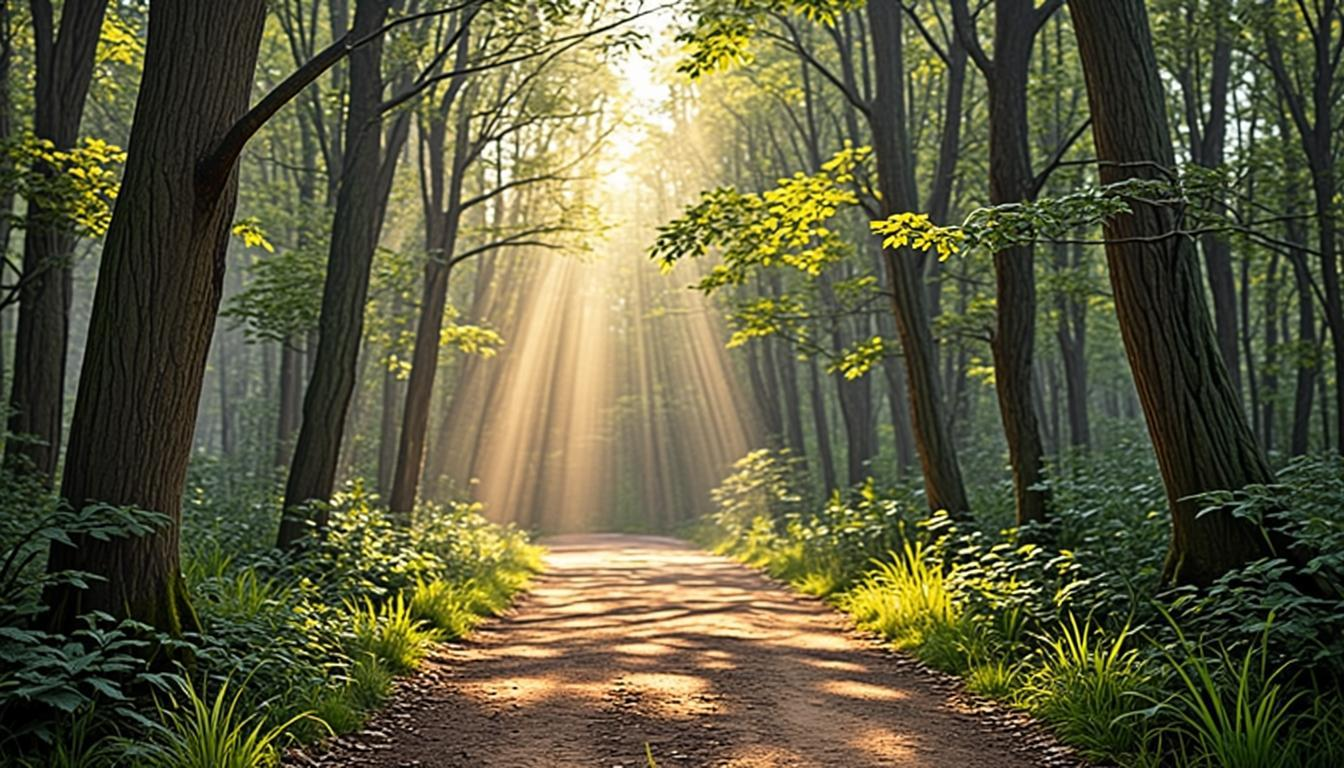
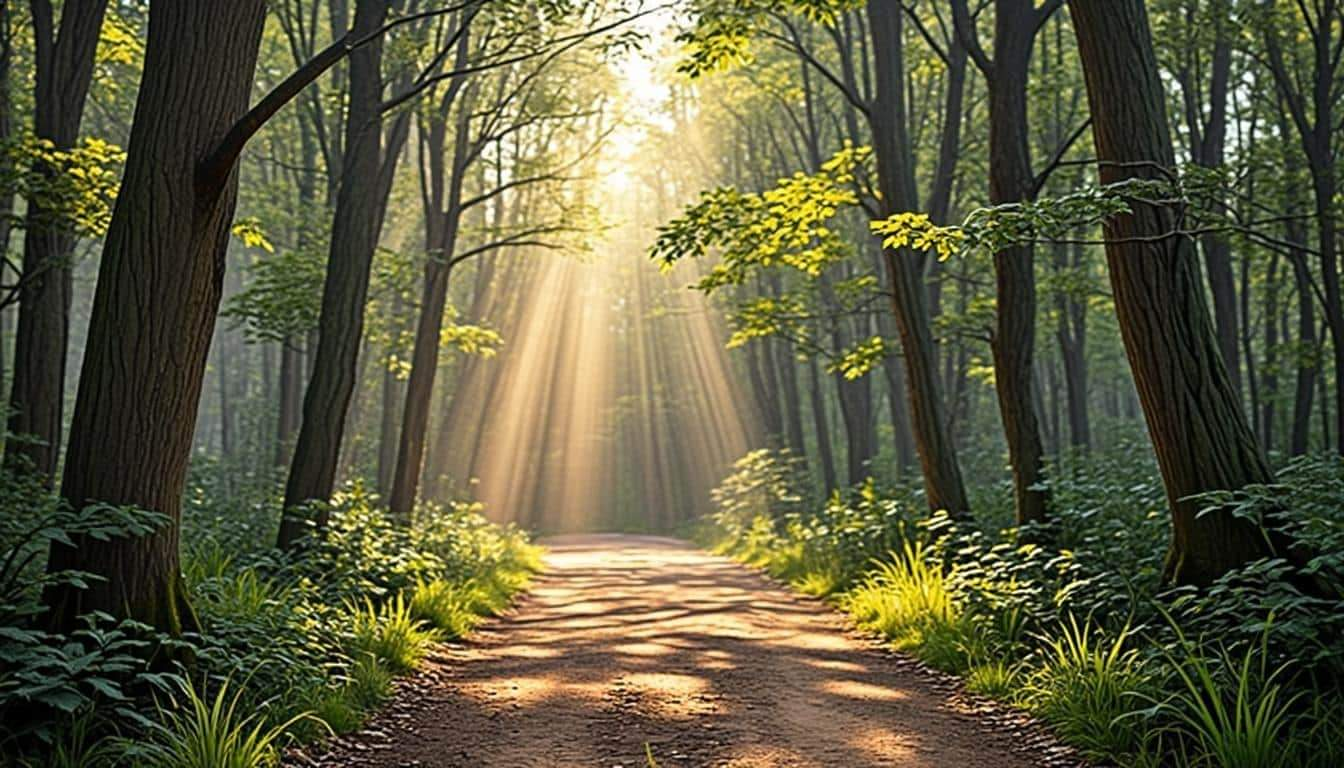
fix: WebP images + JS-independent hero paint (SEO quick wins) (#30)
* fix: convert images to WebP and compress OG image for faster loads

* fix: paint hero content without JavaScript for better LCP

diff --git a/src/components/sections/hero.tsx b/src/components/sections/hero.tsx
@@ -1,7 +1,6 @@
 import Image from "next/image";
 import { ArrowRight, LifeBuoy, Video } from "lucide-react";
 import { Button } from "@/components/ui/button";
-import { Reveal } from "@/components/reveal";
 import { SITE } from "@/lib/site";
 
 export function Hero() {
@@ -18,7 +17,11 @@ export function Hero() {
           {/* A face before any copy: for someone deciding whether to trust a
               stranger with hard things, the photo is the first answer. The
               name is adjacent text, so the image is decorative to readers. */}
-          <Reveal>
+          {/* Above-fold hero content animates with CSS only (.hero-fade-up in
+              globals.css), so the h1 paints without JavaScript — no-JS
+              visitors and crawlers see it, and prefers-reduced-motion skips
+              the motion entirely. Delays mirror the old reveal stagger. */}
+          <div className="hero-fade-up">
             <div className="flex items-center gap-3.5 justify-center lg:justify-start">
               <span className="relative size-14 shrink-0 overflow-hidden rounded-full ring-2 ring-background shadow-md shadow-primary/15">
                 <Image
@@ -39,16 +42,19 @@ export function Hero() {
                 </span>
               </span>
             </div>
-          </Reveal>
+          </div>
 
-          <Reveal delay={0.08}>
+          <div className="hero-fade-up" style={{ animationDelay: "0.08s" }}>
             <span className="mt-6 inline-flex items-center gap-2 rounded-full border border-primary/20 bg-primary/5 px-3.5 py-1.5 text-xs font-medium uppercase tracking-[0.14em] text-primary">
               <Video className="size-3.5" aria-hidden="true" />
               Online-only practice · {SITE.licenseShort}
             </span>
-          </Reveal>
+          </div>
 
-          <Reveal delay={0.16}>
+          <div
+            className="hero-fade-up"
+            style={{ animationDelay: "0.16s" }}
+          >
             <h1
               id="hero-heading"
               className="mt-6 font-serif text-4xl font-semibold leading-[1.08] tracking-tight text-foreground text-balance sm:text-5xl lg:text-6xl"
@@ -56,9 +62,12 @@ export function Hero() {
               When each day feels like a roller coaster, therapy can help you
               get off the ride.
             </h1>
-          </Reveal>
+          </div>
 
-          <Reveal delay={0.24}>
+          <div
+            className="hero-fade-up"
+            style={{ animationDelay: "0.24s" }}
+          >
             <p className="mt-6 max-w-2xl text-lg leading-relaxed text-muted-foreground text-balance">
               I’m Dr. Kara Hokes, a licensed psychologist specializing in
               evidence-based care for trauma and emotion dysregulation.
@@ -67,9 +76,12 @@ export function Hero() {
               story. Evidence-based does not have to mean cold. I bring
               curiosity, warmth, and focused attention to every session.
             </p>
-          </Reveal>
+          </div>
 
-          <Reveal delay={0.32}>
+          <div
+            className="hero-fade-up"
+            style={{ animationDelay: "0.32s" }}
+          >
             <div className="mt-8 flex flex-col gap-3 sm:flex-row sm:items-center">
               <Button
                 asChild
@@ -93,22 +105,28 @@ export function Hero() {
                 <a href="#communities">See who I work with</a>
               </Button>
             </div>
-          </Reveal>
+          </div>
 
-          <Reveal delay={0.4}>
+          <div
+            className="hero-fade-up"
+            style={{ animationDelay: "0.4s" }}
+          >
             <p className="mt-6 flex items-center gap-2 text-sm text-muted-foreground justify-center lg:justify-start">
               <Video className="size-4 shrink-0 text-primary/80" aria-hidden="true" />
               Most major insurance accepted · $150 per session with a free
               15-minute intro call · Secure video across Washington State and
               PSYPACT states
             </p>
-          </Reveal>
+          </div>
 
           <p className="mt-2.5 text-xs text-muted-foreground">Also listed on my{" "}<a href={SITE.psychologyToday} target="_blank" rel="noopener noreferrer" className="font-medium text-primary underline-offset-4 hover:underline">Psychology Today</a> profile.</p>
 
           {/* The two things an anxious visitor scans for most (cost and what
               to do if tonight is the hard night) now sit above the fold. */}
-          <Reveal delay={0.48}>
+          <div
+            className="hero-fade-up"
+            style={{ animationDelay: "0.48s" }}
+          >
             <p className="mt-2.5 flex items-start gap-2 text-xs leading-relaxed text-muted-foreground justify-center lg:justify-start">
               <LifeBuoy
                 className="mt-0.5 size-3.5 shrink-0 text-destructive/80"
@@ -126,7 +144,7 @@ export function Hero() {
                 clock.
               </span>
             </p>
-          </Reveal>
+          </div>
         </div>
       </div>
     </section>
@@ -148,7 +166,7 @@ function HeroImage() {
       {/* Background image via CSS, degrades gracefully to gradient if missing */}
       <div
         className="absolute inset-0 opacity-90 bg-cover bg-center"
-        style={{ backgroundImage: "url('/hero-landscape.png')" }}
+        style={{ backgroundImage: "url('/hero-landscape.webp')" }}
       />
       {/* Cream wash on the left so headline text stays readable; image shows through on the right */}
       <div className="absolute inset-0 bg-gradient-to-r from-background via-background/80 to-transparent md:via-background/55" />

diff --git a/tests/e2e/hero-static-visibility.spec.ts b/tests/e2e/hero-static-visibility.spec.ts
@@ -1,0 +1,41 @@
+import { expect, test } from "@playwright/test";
+
+// The hero is the LCP element. Its content must paint from HTML + CSS alone:
+// no-JS visitors and crawlers still get the headline, and reduced-motion
+// visitors get it with no movement. framer-motion reveals render
+// `opacity: 0` inline until hydration, so they cannot satisfy this; the hero
+// therefore uses a CSS-only fade-up (see .hero-fade-up in globals.css).
+//
+// Note on assertions: opacity is NOT inherited, so the h1's own computed
+// opacity stays 1 even inside an opacity-0 wrapper (and Playwright counts
+// opacity: 0 as "visible"). The real pin is the reveal WRAPPER around the
+// h1: it must end at computed opacity 1 without any JavaScript.
+
+test("hero h1 paints with JavaScript disabled", async ({ browser }) => {
+  const context = await browser.newContext({ javaScriptEnabled: false });
+  const page = await context.newPage();
+  await page.goto("/");
+
+  const h1 = page.locator("#hero-heading");
+  await expect(h1).toBeVisible();
+  // The wrapper carrying the reveal must be fully opaque without JS.
+  await expect(h1.locator("xpath=..")).toHaveCSS("opacity", "1");
+
+  await context.close();
+});
+
+test("hero h1 paints with no motion under prefers-reduced-motion", async ({
+  browser,
+}) => {
+  const context = await browser.newContext({ reducedMotion: "reduce" });
+  const page = await context.newPage();
+  await page.goto("/");
+
+  const h1 = page.locator("#hero-heading");
+  await expect(h1).toBeVisible();
+  await expect(h1.locator("xpath=..")).toHaveCSS("opacity", "1");
+  // Reduced-motion visitors get static content: no fade-up at all.
+  await expect(h1.locator("xpath=..")).toHaveCSS("animation-name", "none");
+
+  await context.close();
+});

diff --git a/src/components/sections/reading.tsx b/src/components/sections/reading.tsx
@@ -15,25 +15,25 @@ const BOOKS: Book[] = [
     title: "The Body Keeps the Score",
     author: "Bessel van der Kolk",
     note: "The classic on how trauma lives in the body. Dense in places, and worth the effort.",
-    cover: "/book-body-keeps-score.png",
+    cover: "/book-body-keeps-score.webp",
   },
   {
     title: "Transforming the Living Legacy of Trauma",
     author: "Janina Fisher",
     note: "A workbook, not a lecture. Gentle exercises for the days when therapy feels like too much.",
-    cover: "/book-living-legacy.png",
+    cover: "/book-living-legacy.webp",
   },
   {
     title: "What My Bones Know",
     author: "Stephanie Foo",
     note: "A memoir of complex PTSD. Clients tell me it's the first time they saw themselves on the page.",
-    cover: "/book-what-my-bones-know.png",
+    cover: "/book-what-my-bones-know.webp",
   },
   {
     title: "It Didn't Start with You",
     author: "Mark Wolynn",
     note: "On how family pain echoes forward. I suggest it when the history predates you.",
-    cover: "/book-didnt-start-with-you.png",
+    cover: "/book-didnt-start-with-you.webp",
   },
 ];
 

diff --git a/src/app/globals.css b/src/app/globals.css
@@ -203,6 +203,33 @@
   }
 }
 
+/* Hero fade-up: CSS-only so the LCP element (hero h1) paints without any
+   JavaScript — no-JS visitors and crawlers get the headline from the first
+   paint, which framer-motion's reveal (opacity: 0 until hydration) cannot
+   do. Timing mirrors the below-fold Reveal (0.6s, same cubic-bezier) and
+   `both` fill-mode holds the from-state during staggered delays. Reduced-
+   motion visitors skip the animation entirely: content static and visible. */
+@keyframes hero-fade-up {
+  from {
+    opacity: 0;
+    transform: translateY(16px);
+  }
+  to {
+    opacity: 1;
+    transform: translateY(0);
+  }
+}
+
+.hero-fade-up {
+  animation: hero-fade-up 0.6s cubic-bezier(0.22, 1, 0.36, 1) both;
+}
+
+@media (prefers-reduced-motion: reduce) {
+  .hero-fade-up {
+    animation: none;
+  }
+}
+
 /* Print layout: people in unsafe situations are often told to keep a printed
    copy of crisis resources somewhere safe, so printing (or saving as PDF)
    produces exactly one clean sheet: the crisis numbers and the practice's

diff --git a/tests/e2e/smoke.spec.ts b/tests/e2e/smoke.spec.ts
@@ -168,6 +168,15 @@ test("t7: practice phone is visible and crisis numbers are real links", async ({
 });
 
 test("t8: homepage passes axe WCAG 2.0/2.1 A and AA", async ({ page }) => {
+  // The hero's CSS entrance fade-up (globals.css .hero-fade-up) leaves text
+  // mid-opacity for its first ~1s, and axe samples BLENDED colors on
+  // partially transparent elements, producing false color-contrast failures
+  // for the resting state. Disable animations before scanning: axe then
+  // measures the final (reduced-motion-equivalent) presentation, which is
+  // the state the WCAG contrast ratios actually apply to.
+  await page.addStyleTag({
+    content: "*, *::before, *::after { animation: none !important; }",
+  });
   const results = await new AxeBuilder({ page })
     .withTags(["wcag2a", "wcag2aa", "wcag21a", "wcag21aa"])
     .analyze();

diff --git a/src/components/sections/approach.tsx b/src/components/sections/approach.tsx
@@ -75,7 +75,7 @@ export function Approach() {
                   <div className="absolute inset-0 bg-gradient-to-br from-[oklch(0.92_0.03_100)] to-[oklch(0.86_0.04_145)]" />
                   <div
                     className="absolute inset-0 bg-cover bg-center"
-                    style={{ backgroundImage: "url('/telehealth-landscape.png')" }}
+                    style={{ backgroundImage: "url('/telehealth-landscape.webp')" }}
                     role="img"
                     aria-label="Illustration of a video therapy setup: a laptop and headphones at a bright desk, evergreen forest outside the window"
                   />

diff --git a/src/lib/site.ts b/src/lib/site.ts
@@ -48,6 +48,6 @@ export const SITE = {
     "https://www.psychologytoday.com/us/therapists/kara-hokes-tacoma-wa/1797162",
   // Practice-provided photographs (supplied directly by the client, so they
   // are the approved profile pictures of record).
-  portrait: "/kara-hokes-medium.jpeg",
-  avatar: "/kara-hokes-small.jpeg",
+  portrait: "/kara-hokes-medium.webp",
+  avatar: "/kara-hokes-small.webp",
 } as const;

diff --git a/src/app/layout.tsx b/src/app/layout.tsx
@@ -110,7 +110,7 @@ export default function RootLayout({
         <link
           rel="preload"
           as="image"
-          href="/hero-landscape.png"
+          href="/hero-landscape.webp"
           fetchPriority="high"
         />
         {/* A page full of phone numbers otherwise gets iOS's auto-detected
